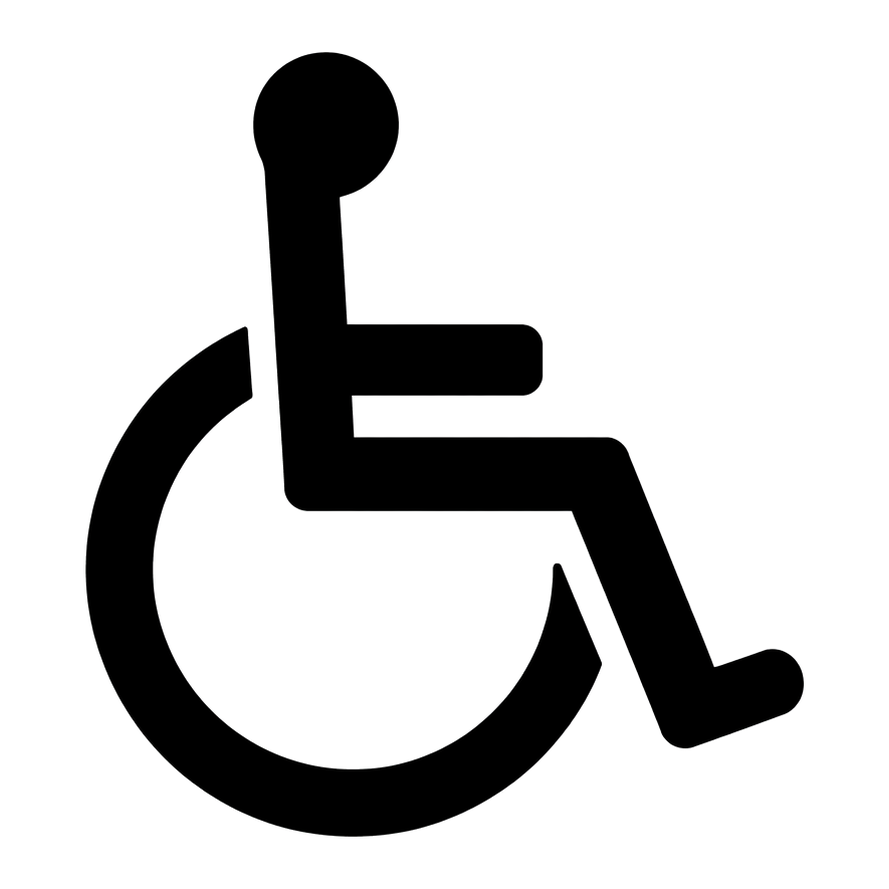
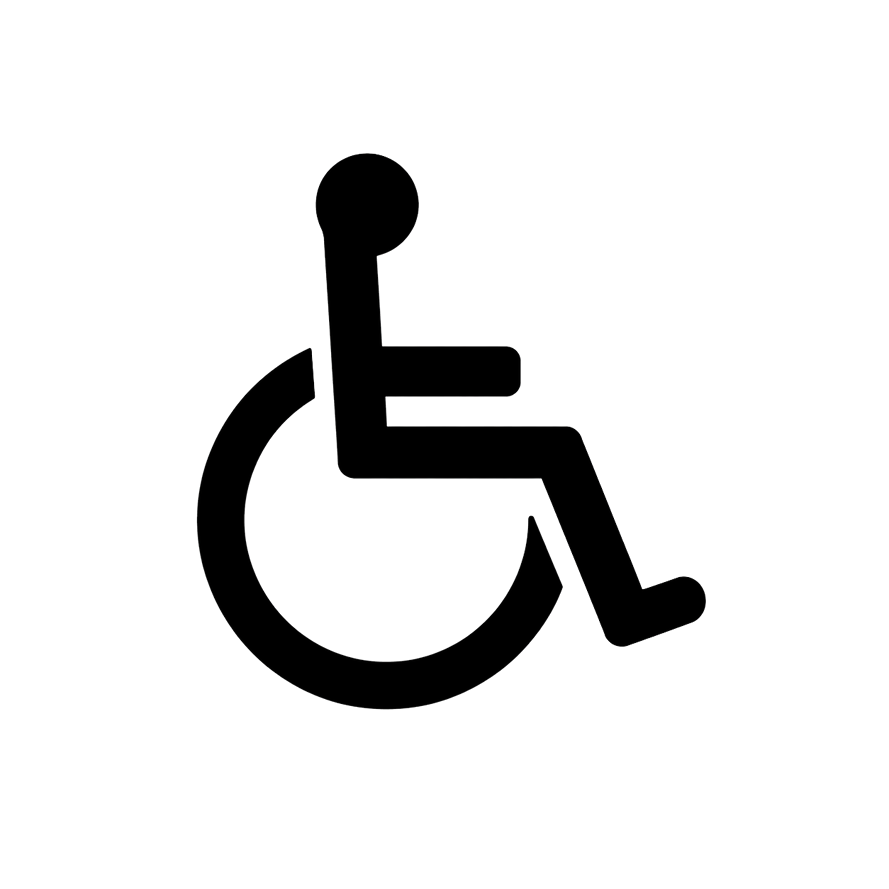
fix(rede): refinar ícones dos filtros de serviços e impedir arrastar
- Atualizar ícones (acessibilidades, bandeira azul, bar, qualidade ouro, wc)
- Impedir selecção/arrasto das imagens nos chips de serviço
- Preservar cores do ícone "qualidade ouro" quando chip ativo
- Ignorar .agents/, skills-lock.json e CODEXMASTER.md no git

Changed region(s): [[0.0911, 0.0607, 0.9111, 0.9415]]

diff --git a/rede.html b/rede.html
@@ -59,14 +59,13 @@
     .service-chip:hover { border-color: #003A40; color: #003A40; background: #EEF5F5; }
     .service-chip.active { background: #003A40; color: #FFEB3B; border-color: #003A40; }
     .service-chip svg { width: 13px; height: 13px; flex-shrink: 0; }
-    .service-chip img { width: 20px; height: 20px; object-fit: contain; flex-shrink: 0; }
+    .service-chip img { width: 20px; height: 20px; object-fit: contain; flex-shrink: 0; pointer-events: none; user-select: none; -webkit-user-drag: none; -webkit-touch-callout: none; }
     /* Per-icon scale balancing: shapes that fill their bbox tightly rendered smaller */
-    .service-chip img[data-key="accessible"],
-    .service-chip img[data-key="bar"],
     .service-chip img[data-key="playground"],
-    .service-chip img[data-key="wc"] { transform: scale(0.82); }
     .service-chip img[data-key="petFriendly"] { transform: scale(0.82); }
     .service-chip.active img { filter: brightness(0) invert(1); }
+    /* Gold Quality: colored asset — keep natural colors on active state */
+    .service-chip.active img[data-key="goldQuality"] { filter: none; }
     .service-chip span { white-space: nowrap; overflow: hidden; text-overflow: ellipsis; min-width: 0; flex: 1; }
 
     .type-btn {
@@ -547,7 +546,7 @@
     if (!el) return;
     el.innerHTML = SERVICES.map(s => {
       const iconHtml = s.img
-        ? `<img src="${s.img}" alt="" data-key="${s.key}" loading="lazy">`
+        ? `<img src="${s.img}" alt="" data-key="${s.key}" loading="lazy" draggable="false" oncontextmenu="return false">`
         : (s.svg ? s.svg : `<i data-lucide="${s.icon}"></i>`);
       return `<button class="service-chip${state.services.has(s.key) ? ' active' : ''}" data-key="${s.key}" aria-pressed="${state.services.has(s.key)}">
         ${iconHtml}
